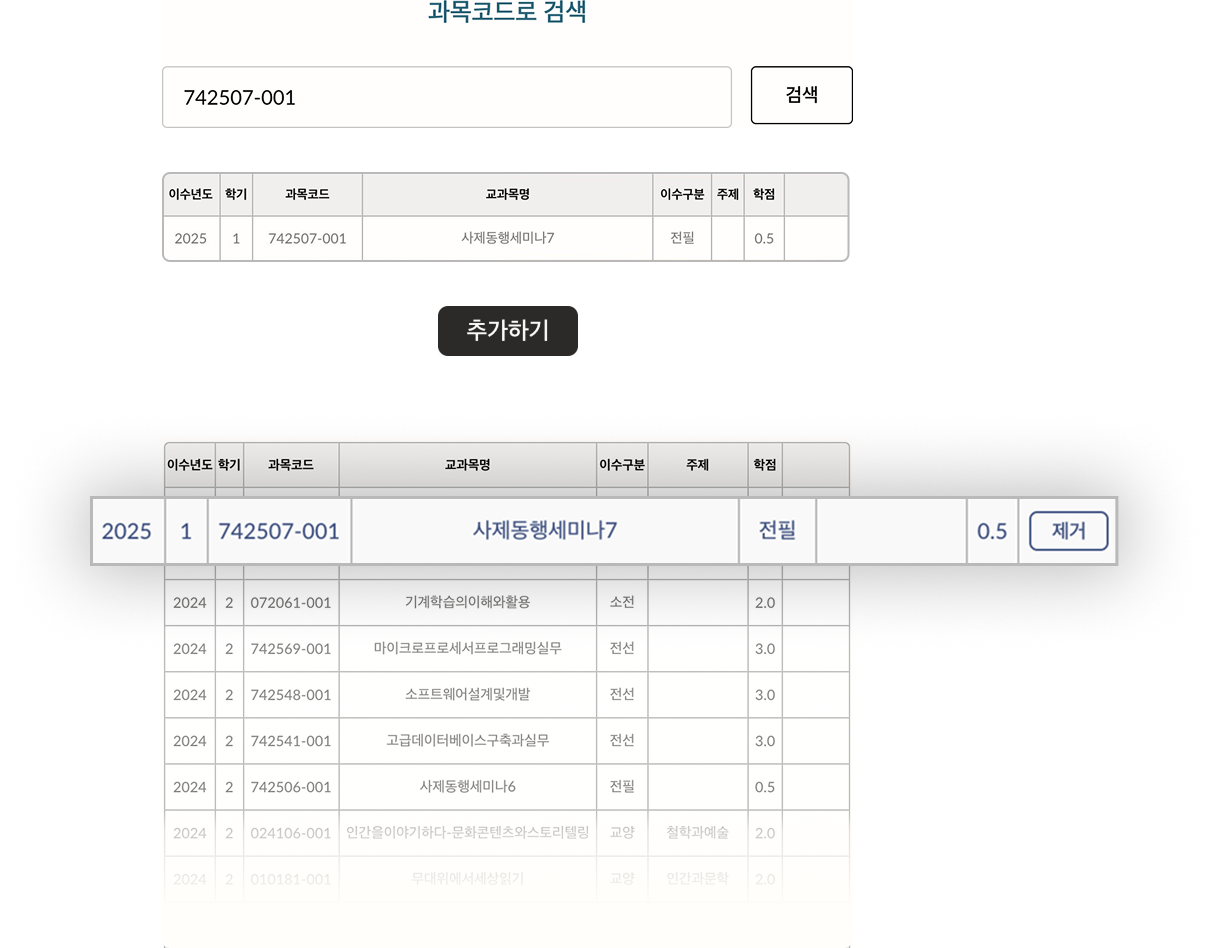
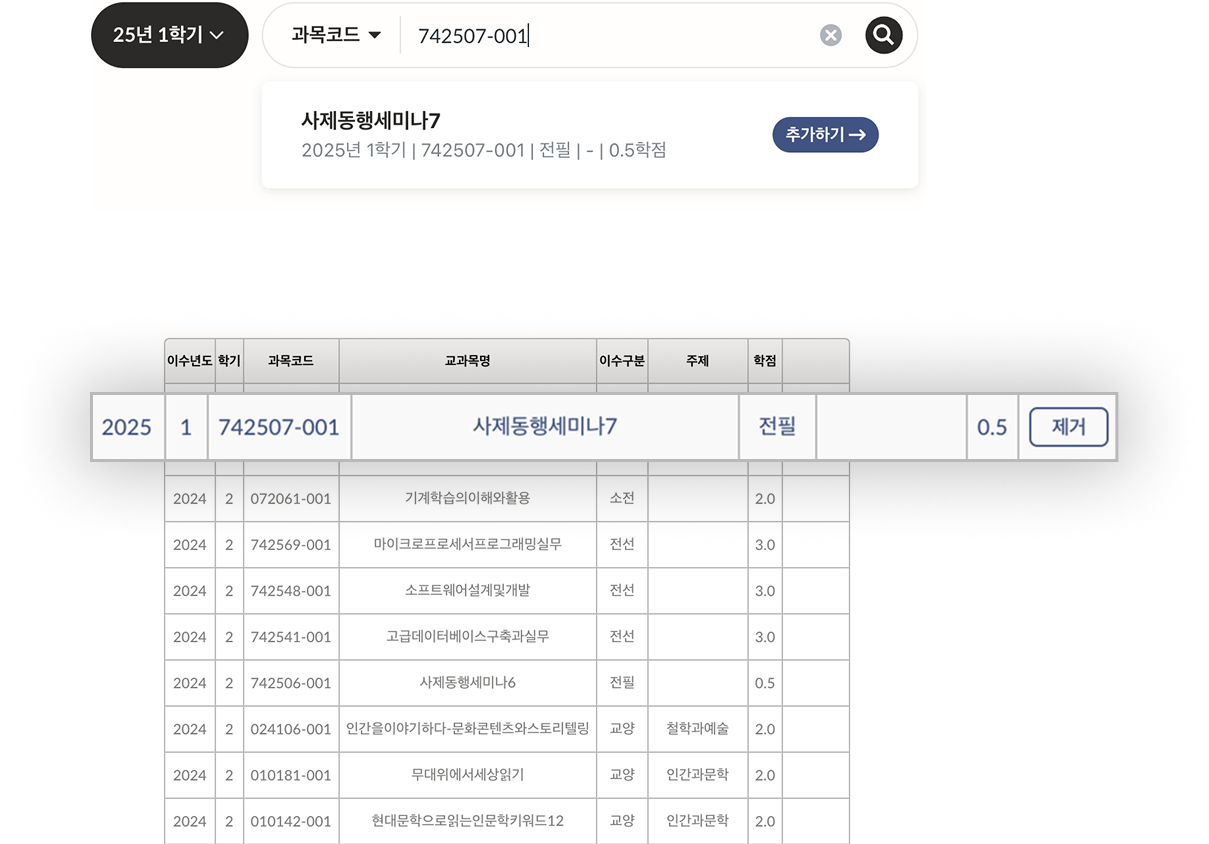
hotfix 원클릭검사 목업 변경

diff --git a/src/pages/oneClickTestPage.jsx b/src/pages/oneClickTestPage.jsx
@@ -171,7 +171,7 @@ function OneClickTestPage() {
                             <img src={customSubjectMockup} className={css(styles.mockuupIMG)}></img>
                         </div>
                         <div className={css(styles.textSide)}>
-                            <span className={css(styles.featTitle)}>기이수과목 커스텀</span>
+                            <span className={css(styles.featTitle)}>이수 과목 시뮬레이션</span>
                             <span className={css(styles.hookingTitleEmpasize)}><span className={css(styles.navyColorPoint)}>수강 예정 과목</span>을</span>
                             <span className={css(styles.hookingTitleEmpasize)}>직접 추가해서</span>
                             <span className={css(styles.hookingTitleEmpasize)}>검사해보세요</span>

diff --git a/src/pages/graduTestPage.jsx b/src/pages/graduTestPage.jsx
@@ -495,7 +495,7 @@ function GraduTestPage() {
             </div>
             <div className={css(styles.bottomContainer)}>
                 <button className={css(styles.gradubutton)} onClick={goToDoneLecture}>
-                    기이수 과목 추가하기
+                    이수 과목 시뮬레이션
                 </button>
                 <a href="https://docs.google.com/forms/d/15ueJU2u7EiEBA8uVJI2hExoQqREngYg23wntCTzBZhM/edit#responses" className={css(styles.feedbackLink)} target="_blank" title="FinishLine 설문 링크">
                   오류 및 피드백 제보

diff --git a/src/pages/doneLecturePage.jsx b/src/pages/doneLecturePage.jsx
@@ -693,6 +693,7 @@ const styles = StyleSheet.create({
     ArrowCustom: {
         width: '45px',
         height: '45px',
+        color: '#2B2A28'
     },
     inputSearchContainer: {
         display: 'flex',
